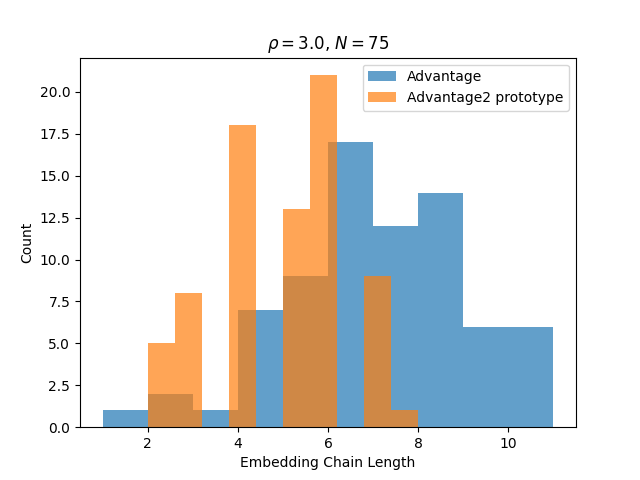
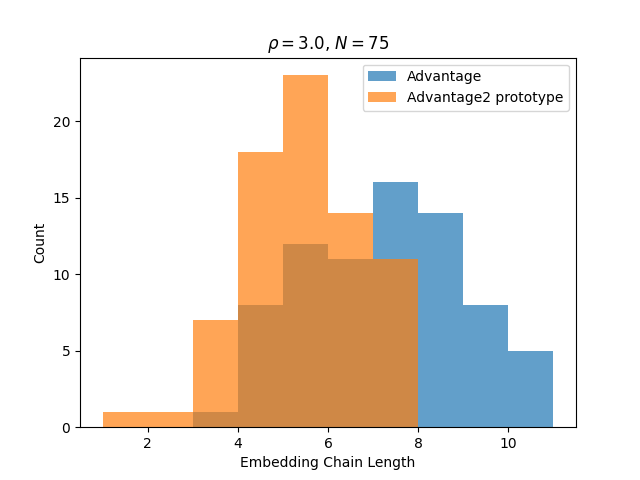
improve histogram readability

diff --git a/nae3sat_example.py b/nae3sat_example.py
@@ -28,7 +28,7 @@ num_variables = 75
 rho_list = [2.1, 3.0]  # the clause-to-variable ratio
 
 # Create directory for plots
-os.makedirs(os.path.join(os.path.dirname(__file__), 'plots'), exist_ok=True)
+os.makedirs(os.path.join(os.path.dirname(__file__), "plots"), exist_ok=True)
 
 # Get an Advantage sampler
 adv_sampler = DWaveSampler(solver=dict(topology__type="pegasus"))
@@ -49,15 +49,17 @@ for rho in rho_list:
         # Find minor embedding
         print(f"minor embedding problem into {sampler.solver.name}")
         embedding = minorminer.find_embedding(
-            dimod.to_networkx_graph(bqm),
-            sampler.to_networkx_graph())
+            dimod.to_networkx_graph(bqm), sampler.to_networkx_graph()
+        )
 
         # Plot chain length distributions
+        chain_lengths = [len(chain) for q, chain in embedding.items()]
         plt.figure(rho * 100)
         plt.hist(
-            [len(chain) for q, chain in embedding.items()],
+            chain_lengths,
             label=sampler.solver.name,
             alpha=0.7,
+            bins=max(chain_lengths) - min(chain_lengths),
         )
         plt.xlabel("Embedding Chain Length")
         plt.ylabel("Count")
@@ -77,12 +79,16 @@ for rho in rho_list:
             chain_strength=3,
             num_reads=100,
             auto_scale=False,
-            answer_mode='raw',
         )
 
         # Plot energy distributions
         plt.figure(rho * 100 + 1)
-        plt.hist(sampleset.record.energy, label=sampler.solver.name, alpha=0.7)
+        plt.hist(
+            sampleset.record.energy,
+            weights=sampleset.record.num_occurrences,
+            label=sampler.solver.name,
+            alpha=0.7,
+        )
         plt.xlabel("Energy")
         plt.ylabel("Count")
         plt.title(f"$\\rho={rho}$, $N={num_variables}$")
